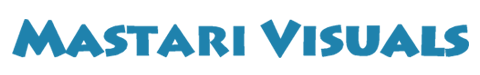
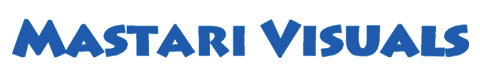
test

Changed region(s): [[0.0, 0.24, 1.0, 0.7733]]

diff --git a/stylesheets.css b/stylesheets.css
@@ -11,7 +11,7 @@
 #navbar {
     width: 2000px;
     height: 80px;
-    background-color: lightskyblue;
+    background-color: #6f9acb;
     margin-top: -10px;
     margin-top: -22px;
     margin-left: -8px;
@@ -35,10 +35,20 @@ body {
 #mastari-visuals {
     width: 480px;
     height: 75px;
-    margin-top: 5px;
-    margin-left: 20px;
+    margin-top: 7px;
+    margin-left: 60px;
 
 }
 body {
     background-color: #fefefe;
+}
+#homebox {
+    background-color: lightblue;
+    width: 500px;
+    height: 225px;
+    border-radius: 5px;
+}
+#homebox-title {
+    font-family: Arial, Helvetica, sans-serif;
+    padding: 10px;
 }

diff --git a/index.html b/index.html
@@ -10,14 +10,15 @@
     <a href="http://www.mastari-visuals.com/index.html">
     <img src="assets/mastari-visuals.png"; id="mastari-visuals">
     </a>
-    <h1 id="toptitle">Mastari Visuals</h1>
 </div>
-<div id="megabox"> 
-<p>VFX and Compositing</p>
-<div id= "test"></div>
-<div id= "homebox"> 
-    hi
-</div>
+<div id="megabox">
+
+    <div id= "homebox"> 
+
+        <h2 id="homebox-title">Home</h2>
+
+
+    </div>
 </div>
 </body>
 </html>
